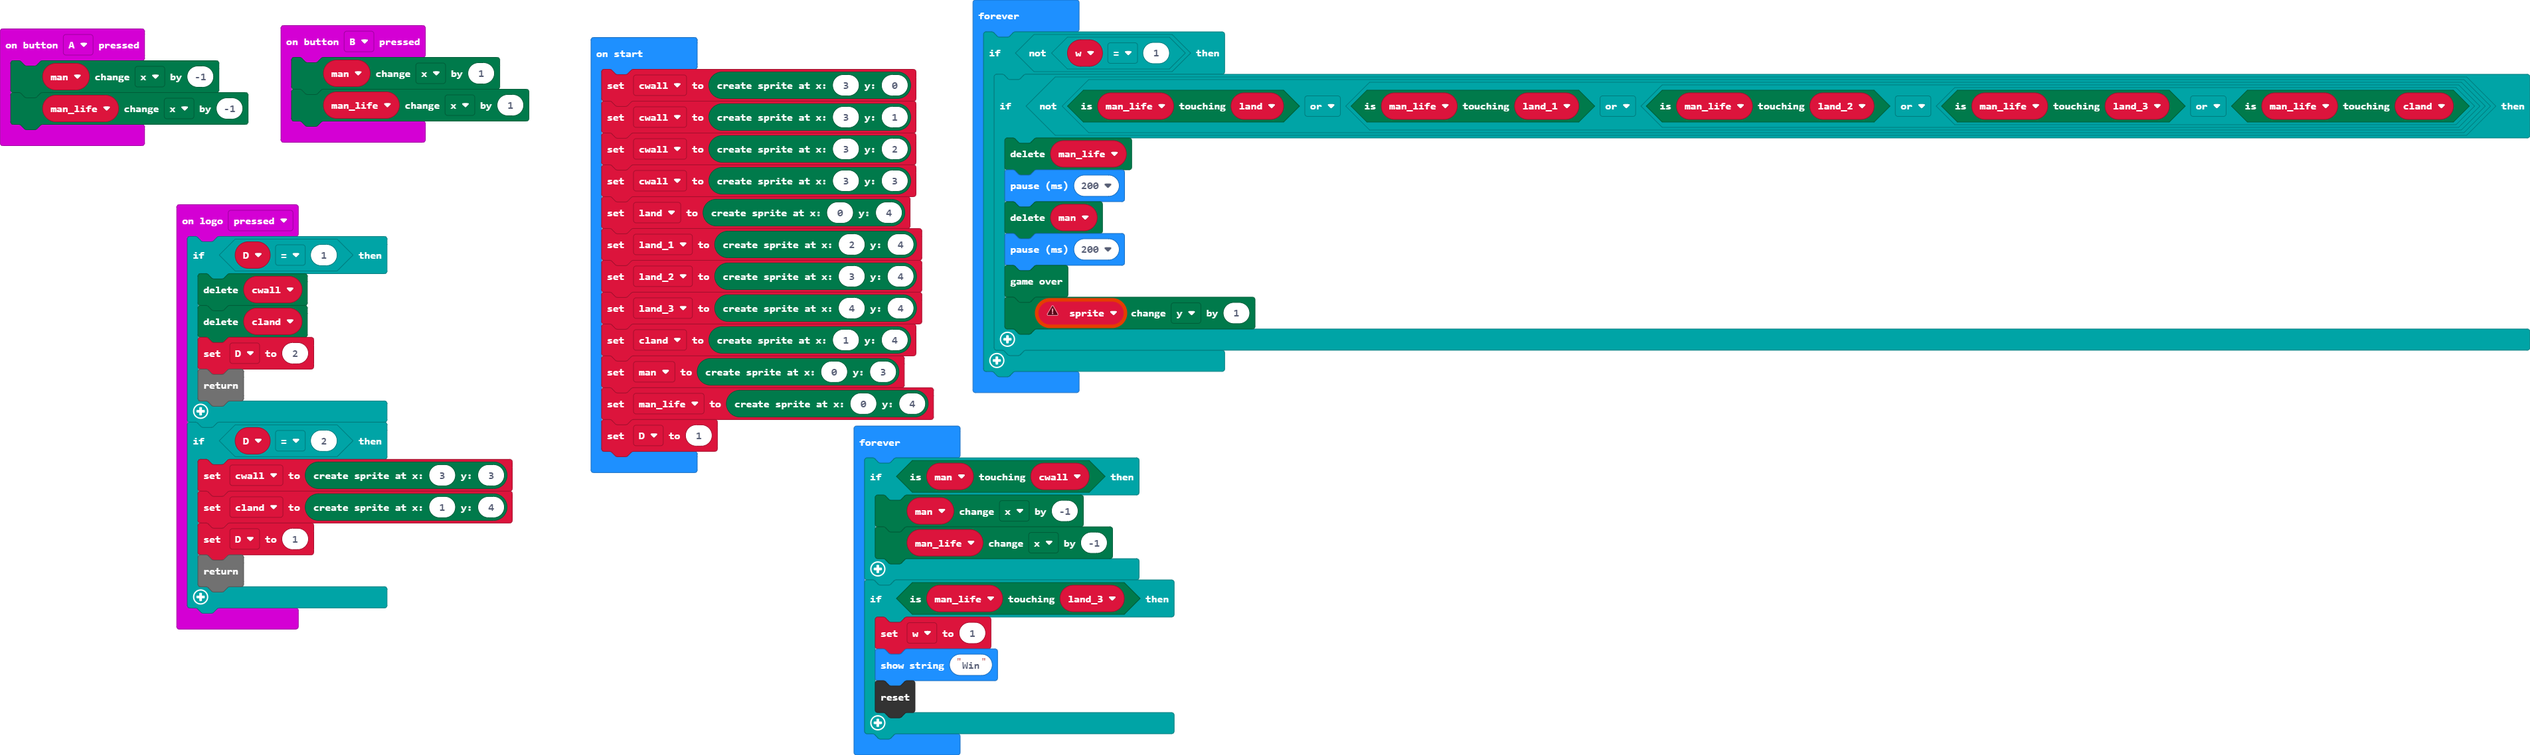
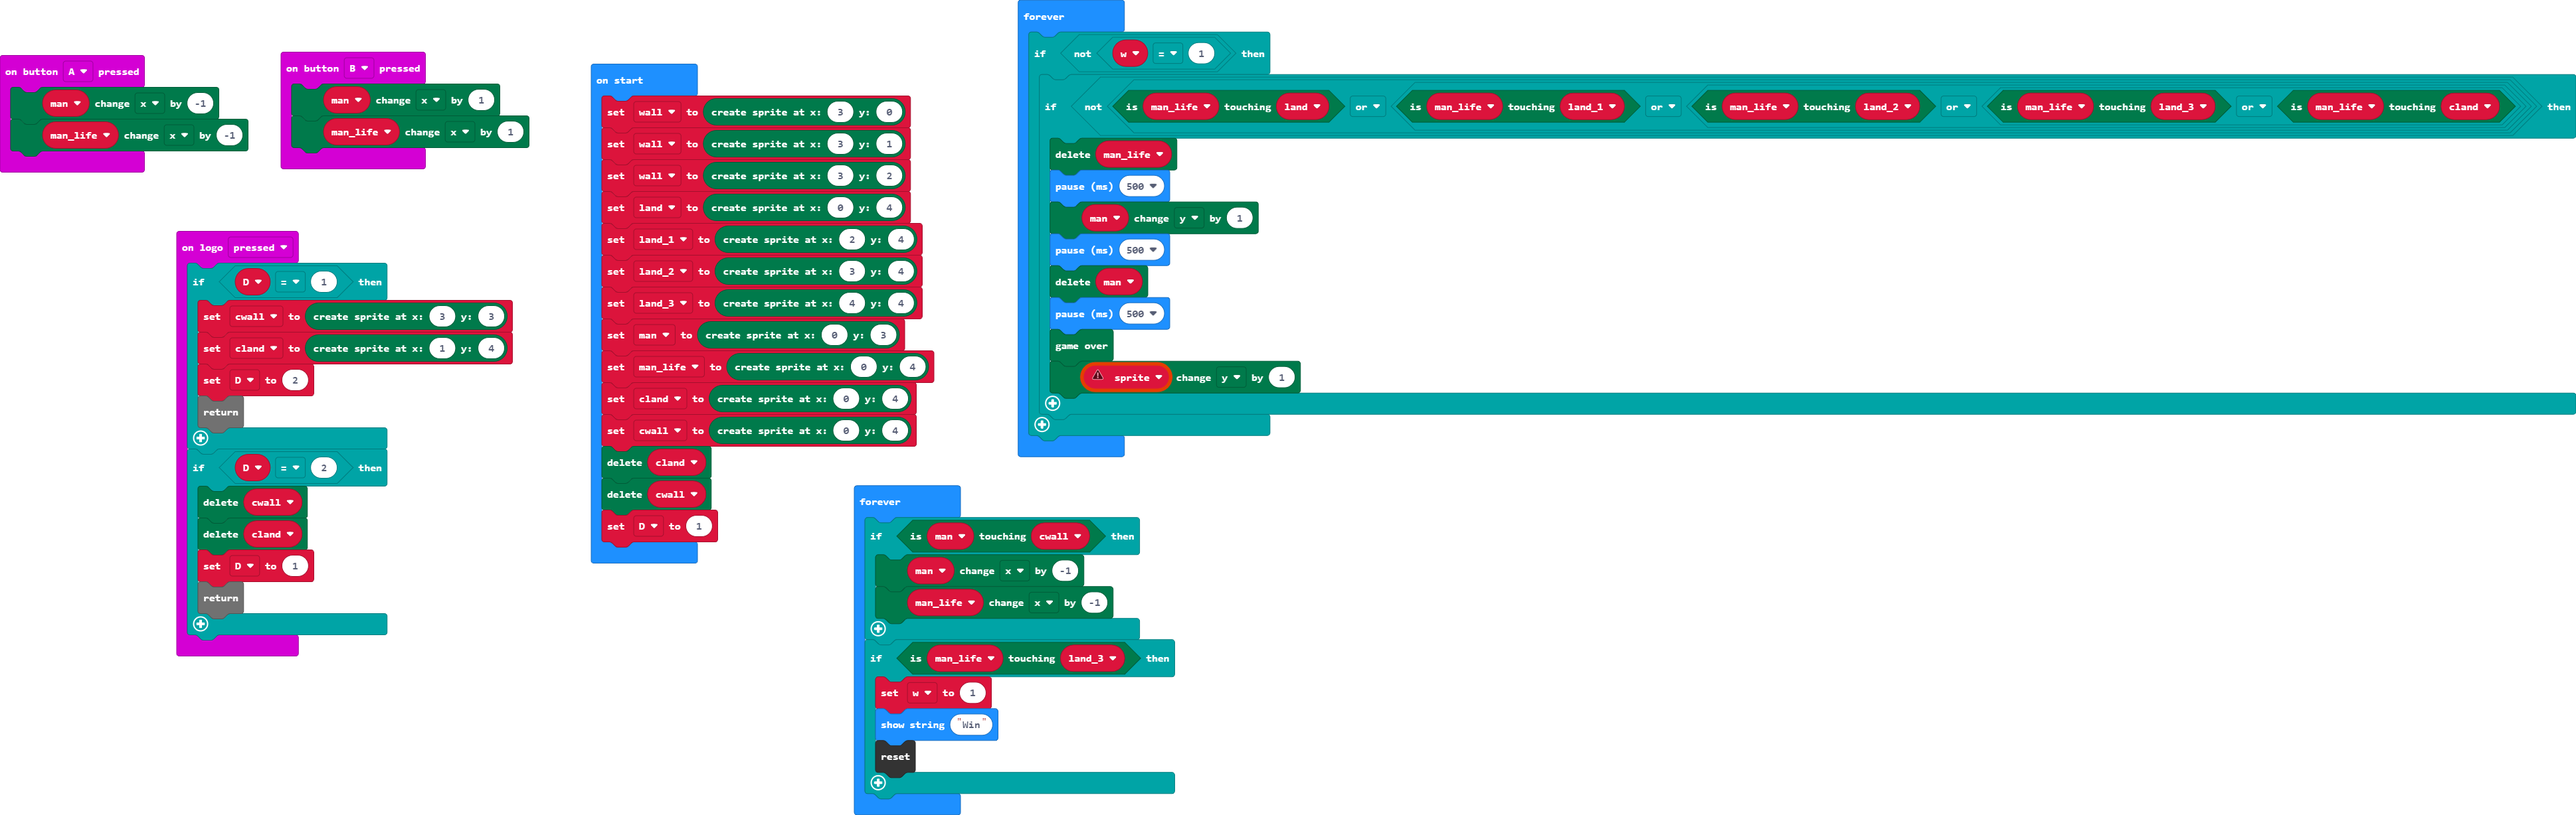
Update main.blocks, main.ts

Changed region(s): [[0.0, 0.0, 1.0, 1.0]]

diff --git a/main.ts b/main.ts
@@ -8,44 +8,48 @@ input.onButtonPressed(Button.B, function () {
 })
 input.onLogoEvent(TouchButtonEvent.Pressed, function () {
     if (D == 1) {
-        cwall.delete()
-        cland.delete()
+        cwall = game.createSprite(3, 3)
+        cland = game.createSprite(1, 4)
         D = 2
         return
     }
     if (D == 2) {
-        cwall = game.createSprite(3, 3)
-        cland = game.createSprite(1, 4)
+        cwall.delete()
+        cland.delete()
         D = 1
         return
     }
 })
 let w = 0
 let D = 0
+let cwall: game.LedSprite = null
+let cland: game.LedSprite = null
 let man_life: game.LedSprite = null
 let man: game.LedSprite = null
-let cland: game.LedSprite = null
-let cwall: game.LedSprite = null
-cwall = game.createSprite(3, 0)
-cwall = game.createSprite(3, 1)
-cwall = game.createSprite(3, 2)
-cwall = game.createSprite(3, 3)
+let wall = game.createSprite(3, 0)
+wall = game.createSprite(3, 1)
+wall = game.createSprite(3, 2)
 let land = game.createSprite(0, 4)
 let land_1 = game.createSprite(2, 4)
 let land_2 = game.createSprite(3, 4)
 let land_3 = game.createSprite(4, 4)
-cland = game.createSprite(1, 4)
 man = game.createSprite(0, 3)
 man_life = game.createSprite(0, 4)
+cland = game.createSprite(0, 4)
+cwall = game.createSprite(0, 4)
+cland.delete()
+cwall.delete()
 D = 1
 basic.forever(function () {
     if (!(w == 1)) {
         if (!(man_life.isTouching(land) || (man_life.isTouching(land_1) || (man_life.isTouching(land_2) || (man_life.isTouching(land_3) || man_life.isTouching(cland)))))) {
             let sprite: game.LedSprite = null
             man_life.delete()
-            basic.pause(200)
+            basic.pause(500)
+            man.change(LedSpriteProperty.Y, 1)
+            basic.pause(500)
             man.delete()
-            basic.pause(200)
+            basic.pause(500)
             game.gameOver()
             sprite.change(LedSpriteProperty.Y, 1)
         }
